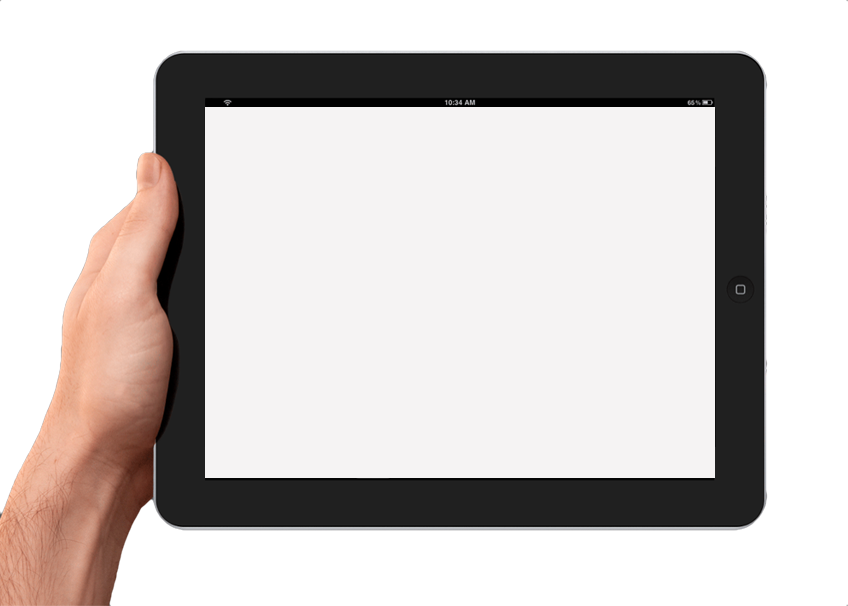
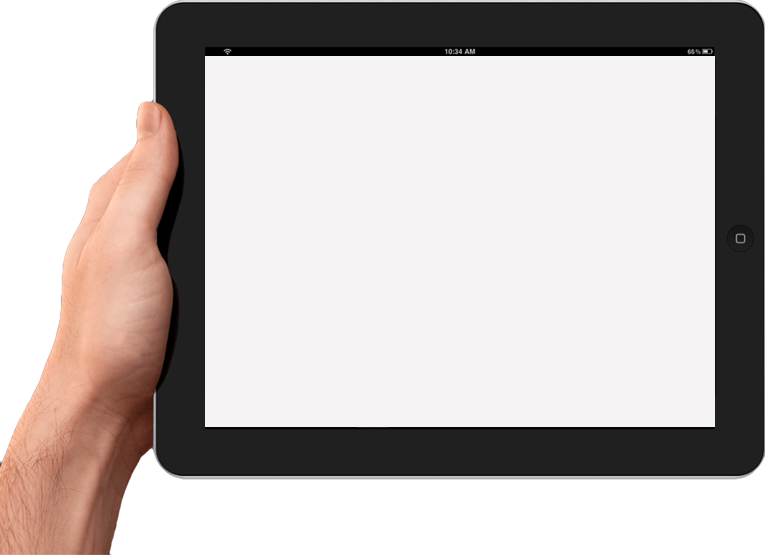
first commit

diff --git a/animation/skrollr-master/index.html b/animation/skrollr-master/index.html
@@ -6,7 +6,7 @@
     <meta name="viewport" content="width=device-width, initial-scale=1, maximum-scale=1">
 
     <title>skrollr - parallax scrolling for the masses</title>
-    <script src="http://ajax.googleapis.com/ajax/libs/jquery/1.11.1/jquery.min.js"></script>
+    <!--<script src="http://ajax.googleapis.com/ajax/libs/jquery/1.11.1/jquery.min.js"></script>-->
 
 
     <!--<link href="examples/fixed-positioning.css" rel="stylesheet" type="text/css"/>-->
@@ -37,6 +37,7 @@
     <h1 class="render" data-anchor-target="#animation"
         data--1850-bottom="margin-top:40px;opacity:0"
         data--1940-bottom="margin-top:-40px;opacity:1"
+        data--2200-bottom="margin-top:-40px;opacity:1"
             >RENDER</h1>
 
     <div class="sketch" data-anchor-target="#animation" data--301-bottom="opacity:0"
@@ -46,10 +47,11 @@
             ></div>
 
     <div class="design" data-anchor-target="#animation"
-         data--1840-bottom="opacity:0;"
-         data--1940-bottom="opacity:1;"
+         data--1840-bottom="opacity:0;right:60px"
+         data--1940-bottom="opacity:1;right:60px"
+         data--2450-bottom="opacity:1;right:60px"
+         data--3450-bottom="opacity:0;right:1050px"
             ></div>
-
 
 
     <div class="hand" data-anchor-target="#animation" data--601-bottom="right:-550px;opacity:0"
@@ -60,8 +62,49 @@
 
             ></div>
 
-    <div class="hand1" data-anchor-target="#animation"></div>
-    <div class="ipad" data-anchor-target="#animation"></div>
+    <div class="hand1" data-anchor-target="#animation"
+
+         data--2050-bottom="right:0px;opacity:0;bottom:-90px;transform:rotate(40deg);transform-origin:50p 50p"
+         data--2450-bottom="right:150px;opacity:1;bottom:-50px;transform:rotate(0deg);transform-origin:50p 50p"
+         data--3450-bottom="right:1050px;opacity:1;bottom:-50px;transform:rotate(0deg);transform-origin:50p 50p"
+         data--3650-bottom="right:1150px;opacity:1;bottom:-70px;transform:rotate(-15deg);transform-origin:50p 50p"
+         data--3850-bottom="right:1050px;opacity:1;bottom:-50px;transform:rotate(0deg);transform-origin:50p 50p"
+         data--4050-bottom="right:1150px;opacity:1;bottom:-70px;transform:rotate(-15deg);transform-origin:50p 50p"
+         data--4250-bottom="right:1050px;opacity:1;bottom:-50px;transform:rotate(0deg);transform-origin:50p 50p"
+         data--4450-bottom="right:1150px;opacity:1;bottom:-70px;transform:rotate(-15deg);transform-origin:50p 50p"
+         data--4650-bottom="right:1050px;opacity:1;bottom:-50px;transform:rotate(0deg);transform-origin:50p 50p"
+         data--4850-bottom="right:1150px;opacity:1;bottom:-70px;transform:rotate(-15deg);transform-origin:50p 50p"
+         data--5050-bottom="right:1050px;opacity:1;bottom:-50px;transform:rotate(0deg);transform-origin:50p 50p"
+         data--5250-bottom="right:1150px;opacity:1;bottom:-70px;transform:rotate(-15deg);transform-origin:50p 50p"
+         data--5450-bottom="right:1050px;opacity:1;bottom:-50px;transform:rotate(0deg);transform-origin:50p 50p"
+         data--5650-bottom="right:1150px;opacity:1;bottom:-70px;transform:rotate(-15deg);transform-origin:50p 50p"
+
+
+
+            ></div>
+
+
+
+
+    <div class="ipad" data-anchor-target="#animation"
+         data--2050-bottom="left:-790px;bottom:-450px;transform:rotate(-60deg);transform-origin:50p 50p"
+         data--2400-bottom="left:0px;bottom:0px;transform:rotate(0);transform-origin:50p 50p"
+            >
+
+        <div class="ipad-image" data-anchor-target="#animation"
+             data--3000-bottom="left:625px;opacity:0;"
+             data--3450-bottom="left:205px;opacity:1;"
+             data--3650-bottom="left:-305px;opacity:1;"
+                ></div>
+
+            </div>
+
+
+    <h1 class="model" data-anchor-target="#animation"
+        data--2800-bottom="margin-top:40px;opacity:0"
+        data--3100-bottom="margin-top:-40px;opacity:1"
+            >3D MODEL</h1>
+
 
 
 </div>

diff --git a/animation/skrollr-master/sass/style.css b/animation/skrollr-master/sass/style.css
@@ -44,6 +44,13 @@
     margin: -40px 0 0 0;
     font: bold 72px "proxima_nova_rgregular";
     color: #6b074b; }
+  .animation .model {
+    position: absolute;
+    top: 300px;
+    right: 100px;
+    font: bold 72px "proxima_nova_rgregular";
+    color: #483a80;
+    margin-top: -40px; }
   .animation .render {
     color: #c42501; }
   .animation .hand {
@@ -60,16 +67,30 @@
     bottom: 0;
     width: 215px;
     height: 374px;
-    display: none; }
+    z-index: 2; }
   .animation .ipad {
     background: url("../images/ipad.png");
     position: absolute;
-    right: 0;
     bottom: 0;
-    display: none;
-    width: 848px;
-    height: 606px; }
+    right: 0;
+    width: 765px;
+    height: 555px;
+    overflow: hidden; }
+    .animation .ipad:after {
+      content: "";
+      width: 50px;
+      height: 380px;
+      position: absolute;
+      top: 48px;
+      right: 0px;
+      background: url("../images/ipad.png") no-repeat -715px -47px;
+      z-index: 5; }
   .animation .ipad-image {
-    display: none; }
+    position: absolute;
+    left: 205px;
+    top: 55px;
+    width: 6630px;
+    height: 372px;
+    background: url("../images/ipad-image-timeline.jpg"); }
 
 /*# sourceMappingURL=style.css.map */

diff --git a/animation/skrollr-master/sass/style.scss b/animation/skrollr-master/sass/style.scss
@@ -54,6 +54,15 @@
     color: #6b074b;
   }
 
+  .model {
+    @include absolute(300px, 100px, "", "");
+    font: bold 72px $proxima_nova_rgregular;
+    color: #483a80;
+    margin-top: #{-80/2}px;
+
+
+  }
+
   .render {
     @extend .sketch-h1;
     color: #c42501;
@@ -73,23 +82,30 @@
     bottom: 0;
     width: 215px;
     height: 374px;
-
-    display: none;
+    z-index: 2;
   }
 
   .ipad {
     background: url("../images/ipad.png");
-    position: absolute;
-    right: 0;
-    bottom: 0;
-    display: none;
 
-    width: 848px;
-    height: 606px;
+    @include absolute("", 0, 0, "");
+    @include widthHeight(765px, 555px);
+    overflow: hidden;
+
+    &:after {
+      @include content(50px, 380px, 48px, 0px, "", "");
+      background: url("../images/ipad.png") no-repeat -715px -47px;
+      z-index: 5;
+
+    }
   }
 
   .ipad-image {
-    display: none;
+    @include absolute(55px, "", "", 205px);
+    @include widthHeight(#{510*13}px, 372px);
+    //    opacity: 0;
+    background: url("../images/ipad-image-timeline.jpg");
+
   }
 
 }
